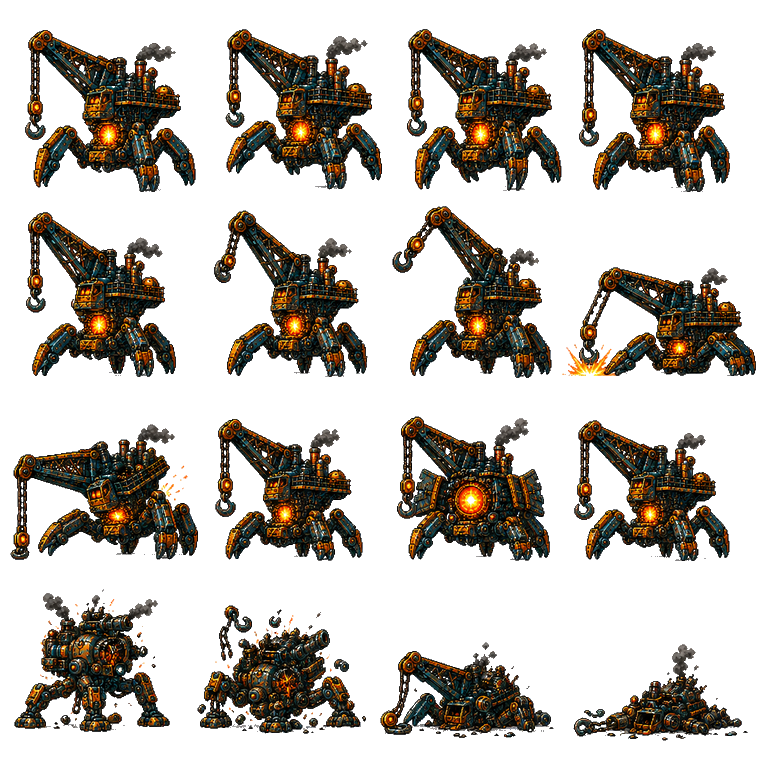
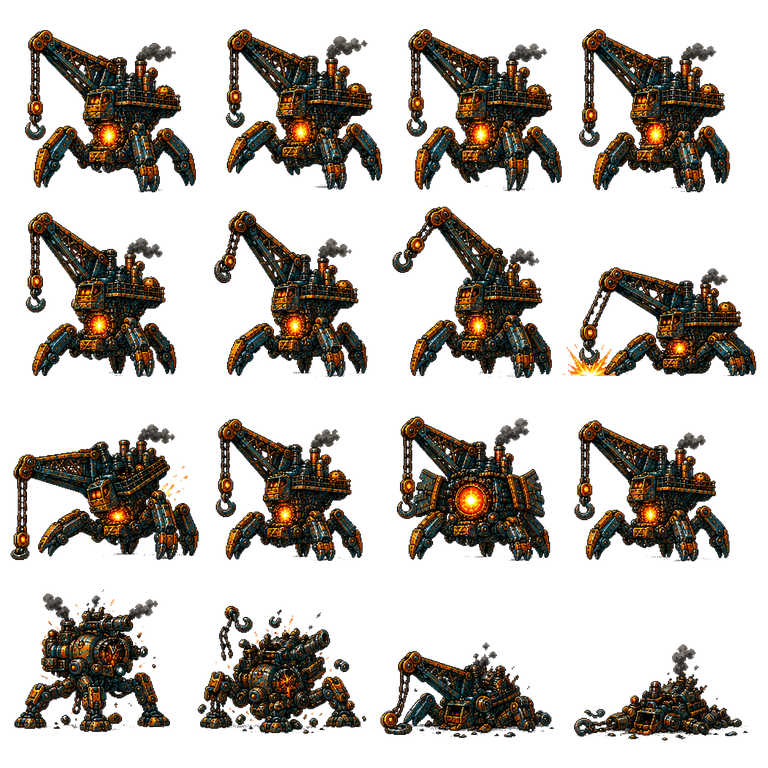
Fix sprite atlas mapping and frame bleed

diff --git a/src/render.cpp b/src/render.cpp
@@ -626,10 +626,15 @@ void Renderer::drawGame(const Game &g, const ViewState &v) {
     if ((e.dead && e.death <= 0) || !e.active || e.x < camera - 60 || e.x > camera + W + 60)
       continue;
     float deathT = e.dead ? 1.0f - std::clamp(e.death / .45f, 0.0f, 1.0f) : 0.0f;
-    int frame = e.dead ? 7
-                       : e.state == 1 ? 4
-                       : e.state == 2 ? 5 + int(time * 8 + e.origin) % 3
-                                      : int(time * 8 + e.origin) % 4;
+    // The v2 enemy atlas uses four locomotion cells, two attack cells and two
+    // collapse cells per row. Keep attack on 4/5; cells 6/7 are the authored
+    // hit-to-ground transition and should never be shown during a live attack.
+    int frame = e.dead
+                    ? (e.kind == 5 ? std::min(1, int(deathT * 2))
+                                   : 6 + std::min(1, int(deathT * 2)))
+                    : e.state == 1 ? 4
+                    : e.state == 2 ? 4 + int(time * 8 + e.origin) % 2
+                                    : int(time * 8 + e.origin) % 4;
     int idx = e.kind * 8 + frame;
     float h = e.kind == 3   ? 31
               : e.kind == 4 ? 31
@@ -699,16 +704,18 @@ void Renderer::drawGame(const Game &g, const ViewState &v) {
         y = playerY - h - std::sin(deathT * 3.14159f) * 9.0f;
         angle = std::sin(time * 26) * 8;
       } else if (p.action > 0 && p.actionKind == 1) {
-        int meleeFrame = std::min(4, int((.42f - p.action) * 12));
-        if (meleeFrame < 4) {
+        int meleeFrame = std::min(7, int((.42f - p.action) / .42f * 8.0f));
+        if (meleeFrame < 8) {
           // The authored hero atlas has a complete eight-frame wrench swing;
-          // keep the original fallback for older asset packs.
+          // sample every cell so the hit arc does not skip half its poses.
           if (modernHero)
-            groundedSprite(hero, 40 + meleeFrame * 2, px - w / 2, y, w, h, p.dir < 0,
-                   meleeFrame == 1 ? -p.dir * 5.0 : meleeFrame == 2 ? p.dir * 4.0 : 0.0);
+            groundedSprite(hero, 40 + meleeFrame, px - w / 2, y, w, h, p.dir < 0,
+                   meleeFrame == 2 || meleeFrame == 3 ? -p.dir * 5.0
+                   : meleeFrame == 4 || meleeFrame == 5 ? p.dir * 4.0 : 0.0);
           else
-            sprite(melee, meleeFrame, px - w / 2, y, w, h, p.dir < 0,
-                   meleeFrame == 1 ? -p.dir * 5.0 : meleeFrame == 2 ? p.dir * 4.0 : 0.0);
+            sprite(melee, std::min(3, meleeFrame / 2), px - w / 2, y, w, h, p.dir < 0,
+                   meleeFrame == 2 || meleeFrame == 3 ? -p.dir * 5.0
+                   : meleeFrame == 4 || meleeFrame == 5 ? p.dir * 4.0 : 0.0);
           frame = -1;
         } else {
           frame = 8 + int(p.anim * 5) % 4;
@@ -723,9 +730,21 @@ void Renderer::drawGame(const Game &g, const ViewState &v) {
         sprite(aim, idx, px - w / 2, y, w, h, p.dir < 0);
         frame = -1;
       } else if (!p.grounded) {
-        frame = 16 + (p.vy < -140 ? 1 : p.vy < 30 ? 2 : 3);
+        // Row 2 is a mixed transition strip: cell 16 is a crouch settle and
+        // cells 17..21 are the airborne arc. Do not use the crouch cell as a
+        // jump frame; it makes the character appear to snap into the floor.
+        static constexpr int jumpFrames[] = {17, 18, 19, 20, 21};
+        int jumpPhase = p.vy < -180 ? 0 : p.vy < -55 ? 1 : p.vy < 90 ? 2 : 3;
+        frame = jumpFrames[std::clamp(jumpPhase, 0, 4)];
       } else if (p.crouch) {
-        frame = 20 + (v.input.shoot ? 2 + int(p.anim * 10) % 2 : 1);
+        // Row 2 cell 16 and row 3 cells 24..30 are the authored crouch set;
+        // row 2 cells 17..21 remain reserved for the jump arc.
+        if (v.input.shoot || p.shot > 0)
+          frame = 26 + int(p.anim * 12) % 5;
+        else {
+          static constexpr int crouchIdleFrames[] = {16, 24, 25};
+          frame = crouchIdleFrames[int(p.anim * 5) % 3];
+        }
       } else if (std::fabs(p.vx) > 1 && (v.input.shoot || p.shot > 0)) {
         frame = modernHero ? 56 + int(p.stride * 8) % 8 : 12 + std::min(3, int(p.fireAge * 28));
       } else if (std::fabs(p.vx) > 1) {

diff --git a/tools/prepare_sprite_atlases.py b/tools/prepare_sprite_atlases.py
@@ -31,10 +31,25 @@ def key_backdrop(image: Image.Image, black: bool = False) -> Image.Image:
     return rgba
 
 
-def normalize(source: Path, target: Path, size: tuple[int, int], black: bool = False) -> None:
-    image = Image.open(source).convert("RGBA")
-    image = image.resize(size, Image.Resampling.LANCZOS)
-    image = key_backdrop(image, black=black)
+def normalize(source: Path, target: Path, size: tuple[int, int], cols: int, rows: int,
+              black: bool = False) -> None:
+    source_image = Image.open(source).convert("RGBA")
+    # Resize each authored cell independently. Resizing the complete board lets
+    # Lanczos sample a neighboring pose, which produces stray limbs around a
+    # character at runtime.
+    image = Image.new("RGBA", size, (0, 0, 0, 0))
+    cell_w, cell_h = size[0] // cols, size[1] // rows
+    for row in range(rows):
+        for col in range(cols):
+            sx0 = col * source_image.width // cols
+            sx1 = (col + 1) * source_image.width // cols
+            sy0 = row * source_image.height // rows
+            sy1 = (row + 1) * source_image.height // rows
+            cell = source_image.crop((sx0, sy0, sx1, sy1))
+            cell = key_backdrop(cell, black=black)
+            cell = cell.resize((cell_w, cell_h), Image.Resampling.LANCZOS)
+            cell = key_backdrop(cell, black=black)
+            image.alpha_composite(cell, (col * cell_w, row * cell_h))
     target.parent.mkdir(parents=True, exist_ok=True)
     image.save(target, "PNG", optimize=True)
 
@@ -43,9 +58,8 @@ def prepare_bosses(source_dir: Path, target_dir: Path) -> None:
     board_size = (768, 768)  # 4x4 cells, 192px per authored pose
     for boss in range(6):
         source = source_dir / f"boss{boss}-source.png"
-        board = Image.open(source).convert("RGBA").resize(board_size, Image.Resampling.LANCZOS)
-        board = key_backdrop(board)
-        board.save(target_dir / f"boss{boss}-v2.png", "PNG", optimize=True)
+        target = target_dir / f"boss{boss}-v2.png"
+        normalize(source, target, board_size, 4, 4)
 
 
 def main() -> None:
@@ -55,9 +69,10 @@ def main() -> None:
                         default=Path(__file__).resolve().parent / "sourceboards")
     args = parser.parse_args()
     assets = args.assets
-    normalize(args.source_dir / "hero-source.png", assets / "hero-v2.png", (768, 768))
-    normalize(args.source_dir / "enemies-source.png", assets / "enemies-v2.png", (768, 576))
-    normalize(args.source_dir / "vehicle-source.png", assets / "vehicle-v2.png", (768, 768), black=True)
+    normalize(args.source_dir / "hero-source.png", assets / "hero-v2.png", (768, 768), 8, 8)
+    normalize(args.source_dir / "enemies-source.png", assets / "enemies-v2.png", (768, 576), 8, 6)
+    normalize(args.source_dir / "vehicle-source.png", assets / "vehicle-v2.png", (768, 768), 4, 4,
+              black=True)
     prepare_bosses(args.source_dir, assets)
 
 

diff --git a/README.md b/README.md
@@ -56,8 +56,11 @@ SDL_VIDEODRIVER=dummy SDL_AUDIODRIVER=dummy ./build/kiyi_hurdasi --assets ../ass
 
 ## Original sprite atlas pass
 
-The player uses `hero-v2.png` with eight authored rows: run, idle/fire, jump/crouch,
-grenade, melee, death and run-fire. `enemies-v2.png` contains eight frames for
+The player uses `hero-v2.png` with eight authored rows: run, idle/fire, a mixed
+jump transition strip, crouch-fire, grenade, melee, death and run-fire. The
+renderer maps the jump arc to cells 17–21, crouch idle to 16/24/25, crouch-fire
+to 26–30, and the full melee swing to 40–47 so mixed rows never select the wrong
+pose. `enemies-v2.png` contains eight frames for
 guards, grenadiers, shield troops, drones, turrets and rescued workers. `vehicle-v2.png`
 adds movement, firing, damage and collapse frames for the Scrap Walker. Each of the
 six missions has its own `boss0-v2.png` through `boss5-v2.png` 4×4 atlas so Vita never
@@ -90,4 +93,4 @@ The comparison video is a silent 12-second, 30 fps recording of the 60 Hz simula
 
 ## Teknik notlar
 
-The game runs at a 480×272 logical resolution with nearest-neighbor pixel sampling and a 60 Hz simulation. Desktop uses SDL2; Vita uses the VitaSDK SDL2 port. Normal player poses share a 48×48 ground box, atlas cells retain a consistent authored scale, visible sprite bottoms are measured at load time, and grounded frames receive a small baseline correction so feet stay on the same collision line. The player is interpolated between fixed ticks for smoother motion. Backgrounds use four depth rates: painted scenery at 16%, industrial middle silhouettes at 34%, the gameplay plane at 100%, and a sparse authored-prop foreground rail/cable pass at 112–128%. This creates a restrained 2.5D effect without changing collision geometry or adding a large texture. Practical lights, haze and a light CRT pass complete the scene. Music is generated in real time with per-stage motifs and a higher-intensity boss arrangement; 32 kHz sound effects use per-weapon noise balance and click-free envelopes. The visual designs are original and do not use existing commercial characters or vehicles.
+The game runs at a 480×272 logical resolution with nearest-neighbor pixel sampling and a 60 Hz simulation. Desktop uses SDL2; Vita uses the VitaSDK SDL2 port. Normal player poses share a 48×48 ground box, atlas cells retain a consistent authored scale, visible sprite bottoms are measured at load time, and grounded frames receive a small baseline correction so feet stay on the same collision line. The player is interpolated between fixed ticks for smoother motion. Backgrounds use four depth rates: painted scenery at 16%, industrial middle silhouettes at 34%, the gameplay plane at 100%, and a sparse authored-prop foreground rail/cable pass at 112–128%. This creates a restrained 2.5D effect without changing collision geometry or adding a large texture. The sprite preparation tool crops and rescales every authored atlas cell independently, preventing Lanczos sampling from pulling opaque pixels out of a neighboring frame. Practical lights, haze and a light CRT pass complete the scene. Music is generated in real time with per-stage motifs and a higher-intensity boss arrangement; 32 kHz sound effects use per-weapon noise balance and click-free envelopes. The visual designs are original and do not use existing commercial characters or vehicles.

diff --git a/DEBUG_ANALYSIS.md b/DEBUG_ANALYSIS.md
@@ -24,7 +24,7 @@ The RetroGameZone Metal Slug Sprite Database is useful as a frame-by-frame refer
 
 - Added a continuous animation clock, landing timer, recoil timer and hit flash to the player state.
 - Normal player poses now share a stable 48×48 ground box. Aim, grenade, melee, jump and fire transitions keep the same baseline.
-- Authored atlas cells are now kept at their original grid bounds instead of being trimmed independently; the renderer interpolates the player between fixed 60 Hz simulation ticks for smoother camera motion.
+- The source boards are normalized cell-by-cell before runtime import, while each visible pose keeps a stable destination box. This prevents resampling from pulling pixels from a neighboring frame; the renderer interpolates the player between fixed 60 Hz simulation ticks for smoother camera motion.
 - Added walk bob, idle breathing, vehicle bob, muzzle flash and landing dust.
 - Extended melee and grenade pose timing so their frames are readable instead of being consumed in a few ticks.
 - Fire poses and muzzle flashes persist for the weapon cooldown, so releasing the button cannot cut the contact frame in half.
@@ -51,6 +51,7 @@ The RetroGameZone Metal Slug Sprite Database is useful as a frame-by-frame refer
 - Added a four-rate 2.5D depth stack: the painted world scrolls slowly, middle silhouettes drift at 34%, gameplay remains at 100%, and a sparse authored-prop rail/cable foreground sweeps at 112–128%. The foreground is drawn after actors with low alpha so it gives camera movement depth without hiding targets or changing collision.
 - Softened the light pass after visual inspection: volumetric shafts are now tapered alpha bands with an inner-to-outer fade instead of hard debug-like lines, while ambient grading and point lights stay subtle enough to preserve the painted art.
 - Fixed floating poses by measuring each atlas cell's visible alpha bottom at load time. Grounded sprites receive a per-frame baseline correction; airborne poses and intentional death arcs keep their original vertical composition.
+- Corrected semantic frame mapping: hero jump uses cells 17–21, crouch uses 16/24–30, melee uses all cells 40–47, and enemy attacks use cells 4–5 while death uses the authored collapse cells 6–7.
 - Added grounded actor shadows so jumps, drones and deaths read clearly against the painted backgrounds.
 - Expanded the procedural soundtrack with chord pads, bass movement, kick, snare, hi-hat and ghost rhythm layers. Boss encounters raise the tempo, transpose the motif and add tom/alarm accents.
 - Audio now runs at 32 kHz with per-effect noise balance and short attack/release envelopes: metallic shots stay punchy, laser stays tonal, and flame/blast effects retain controlled texture. Added dedicated Flame Shot and Laser sound signatures while preserving the existing weapon, rescue, hit, vehicle and boss cues.
